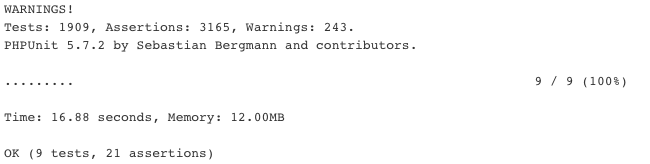
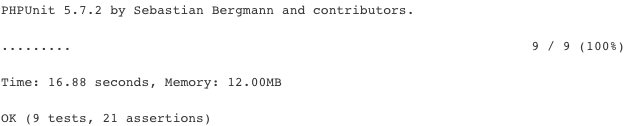
Removing Sugar PHPUnit test run
Update README to reflect Sugar PHPUnit tests not run as part of build

diff --git a/README.md b/README.md
@@ -199,9 +199,9 @@ The PackageGenerator is responsible for creating the Professor M Module Loadable
 PackageGenerator is functioning as we expect that it would.  This stage does NOT test the Module Loadable Package.  
 
 The next stage to run is the Run PHPUnit stage.  Each job in this stage deploys Sugar, installs the Professor M Module
-Loadable Package, runs the PHPUnit tests that Sugar provides, and runs the PHPUnit tests written specifically for our 
-Professor M Module Loadable Package.  Each job in this stage is run against a different combination of Sugar versions 
-and editions.  See 
+Loadable Package, runs the setup for the PHPUnit tests that Sugar provides, and runs the PHPUnit tests written 
+specifically for our Professor M Module Loadable Package.  Each job in this stage is run against a different combination 
+of Sugar versions and editions.  See 
 [PHPUnit tests for the Professor M Module Loadable Package](#phpunit-tests-for-the-professor-m-module-loadable-package) 
 for details.
  
@@ -374,10 +374,6 @@ PHPUnit results for PackageGenerator:
 
 ![PHPUnit results](images/jenkins-phpunit.png)
 
-PHPUnit results for Sugar:
-
-![PHPUnit results](images/phpunitsugar.png)
-
 PHPUnit results for the Professor M Module Loadable Package:
 
 ![PHPUnit results](images/phpunitprofm.png)
@@ -421,8 +417,8 @@ to run the PHPUnit tests as well as to generate the Professor M module loadable 
 This script does NOT test the Module Loadable Package.  
 
 The next step is to run [SetupEnvAndRunPHPUnitTests.sh](scripts/SetupEnvAndRunPHPUnitTests.sh).  This script deploys 
-Sugar, installs the Professor M Module Loadable Package, runs the PHPUnit tests that Sugar provides, and runs the 
-PHPUnit tests written specifically for our Professor M Module Loadable Package.  
+Sugar, installs the Professor M Module Loadable Package, runs the setup for the PHPUnit tests that Sugar provides, and 
+runs the PHPUnit tests written specifically for our Professor M Module Loadable Package.  
 
 Note:  if any step in the process fails (for example, a Jasmine test fails), the remaining steps will not be run.
 
@@ -630,7 +626,13 @@ The easiest way to run the PHPUnit tests is to run the same scripts that the aut
 First, you will need to install [Docker](https://docs.docker.com/install/), 
 [Docker Compose](https://docs.docker.com/compose/install/#install-compose), and [Perl](https://www.perl.org/get.html).
 
-Then execute [SetupEnvAndRunPHPUnitTests.sh](scripts/SetupEnvAndRunPHPUnitTests.sh).
+Then execute [SetupEnvAndRunPHPUnitTests.sh](scripts/SetupEnvAndRunPHPUnitTests.sh).  Note that the Sugar provided unit 
+tests are NOT run as part of [SetupEnvAndRunPHPUnitTests.sh](scripts/SetupEnvAndRunPHPUnitTests.sh).  If you want to add
+them, add the following line after the call to `SetupSugarPHPUnitTests.sh`:
+
+```
+./RunSugarPHPUnitTests.sh $sugarDirectory || exit 1
+```
 
 ###### Manual execution in an installed version of Sugar
 
@@ -677,11 +679,19 @@ $ ../../../../vendor/bin/phpunit
 ```
 
 ##### Automatic execution in Travis CI
-The PHPUnit tests are automatically run as part of the Run PHPUnit stage of the Travis CI build.  
+The PHPUnit tests that test the Professor M Module Loadable Package are automatically run as part of the Run PHPUnit 
+stage of the Travis CI build.  
 
 Each job in this stage is basically the same with the exception of the environment variables.  Each job calls 
-[SetupEnvAndRunPHPUnitTests.sh](scripts/SetupEnvAndRunPHPUnitTests.sh), which executes both the Sugar provided PHPUnit 
-tests and the Professor M PHPUnit tests.
+[SetupEnvAndRunPHPUnitTests.sh](scripts/SetupEnvAndRunPHPUnitTests.sh), which executes the Professor M PHPUnit tests.
+
+Note that the Sugar provided unit tests are NOT run as part of 
+[SetupEnvAndRunPHPUnitTests.sh](scripts/SetupEnvAndRunPHPUnitTests.sh).  If you want to add
+them, add the following line after the call to `SetupSugarPHPUnitTests.sh`:
+
+```
+./RunSugarPHPUnitTests.sh $sugarDirectory || exit 1
+```
 
 #### Interpreting the results
 To see the results of the tests that are run as part of the Travis CI build, open the build in Travis CI.  If the build 
@@ -707,8 +717,16 @@ If a PHPUnit test fails, you'll see something like the following in the job log.
 
 ##### Automatic execution in Jenkins
 
-The PHPUnit tests are automatically run as part of the Jenkins build when 
-[RunPackUnitTestsAndBuildProfMPackage.sh](scripts/RunPackUnitTestsAndBuildProfMPackage.sh) is executed.
+The PHPUnit tests that test the Professor M Module Loadable Package are automatically run as part of the Jenkins build 
+when [SetupEnvAndRunPHPUnitTests.sh](scripts/SetupEnvAndRunPHPUnitTests.sh) is run.
+     
+Note that the Sugar provided unit tests are NOT run as part of 
+[SetupEnvAndRunPHPUnitTests.sh](scripts/SetupEnvAndRunPHPUnitTests.sh).  If you want to add them, add the following line 
+after the call to `SetupSugarPHPUnitTests.sh`:
+     
+     ```
+     ./RunSugarPHPUnitTests.sh $sugarDirectory || exit 1
+     ```
 
 #### Interpreting the results
 To see the results of the tests that are run as part of the Jenkins build, open the build in Jenkins.  If the build 
